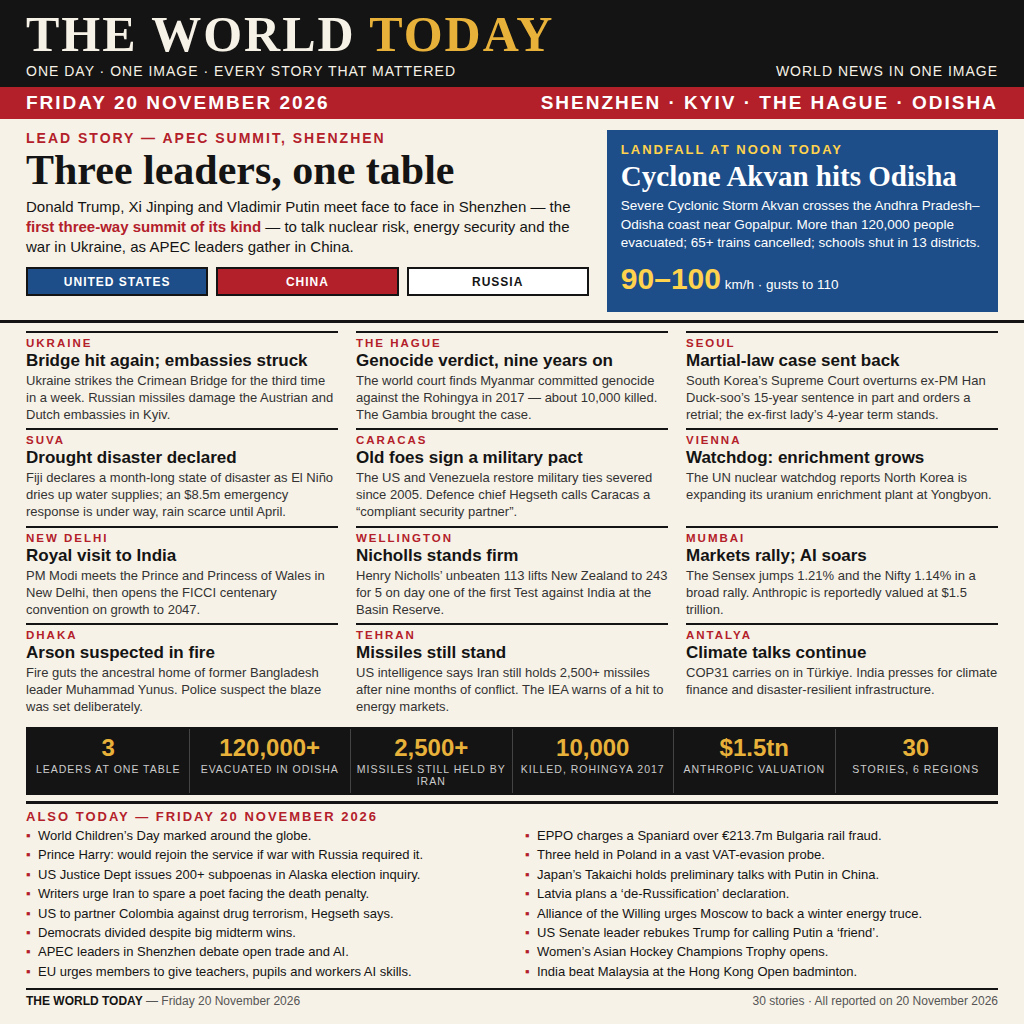
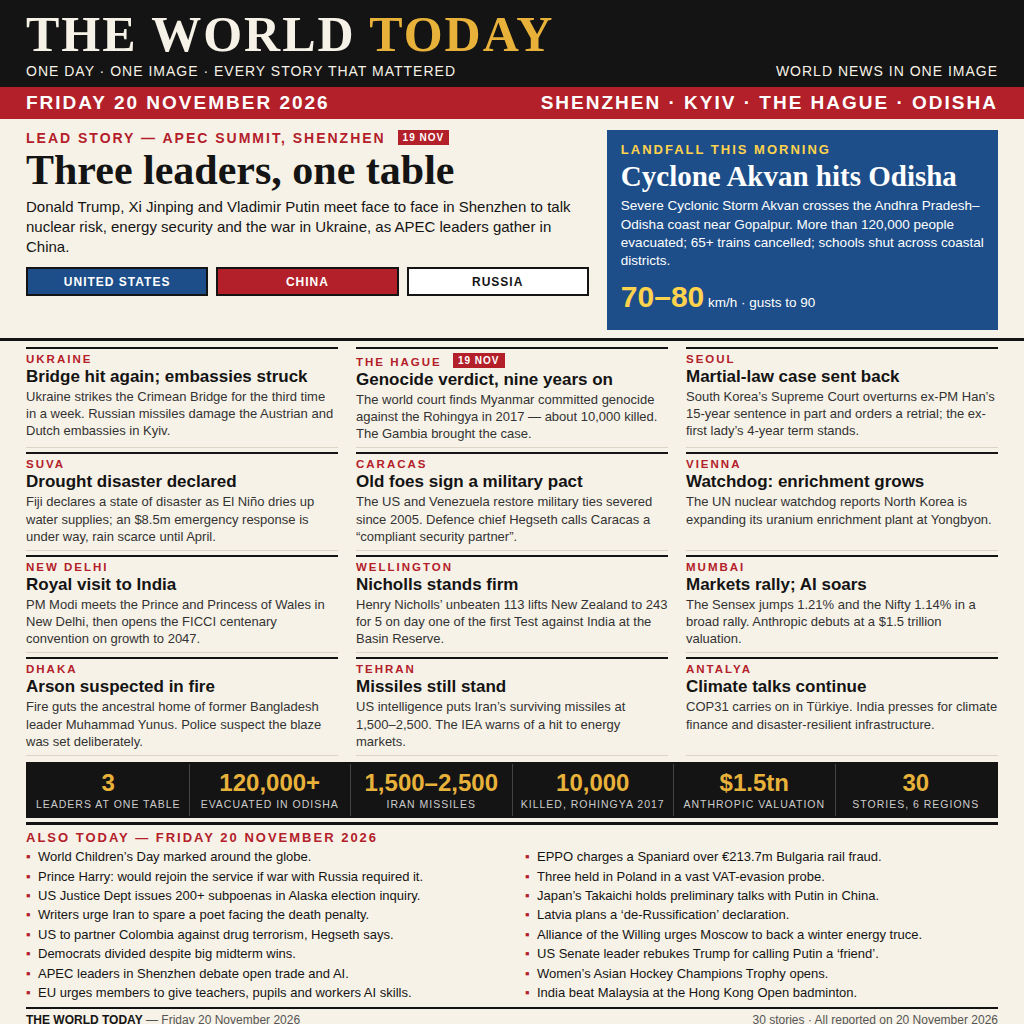
news-image-20261120: fix v1 per Urgent 6 advice — 19 NOV chips, soften summit claim, correct cyclone/Iran/Anthropic facts, grid cell separation

diff --git a/main.ts b/main.ts
@@ -2,23 +2,23 @@
 // Node 22, standard library only, no network access.
 // The picture lives next to this file as entry.png (1024x1024, made at build
 // time by rendering an HTML briefing board with headless Chromium, so every
-// letter is real vector text): a "THE WORLD TODAY" broadsheet with the
-// Shenzhen trilateral as the lead story, a Cyclone Akvan landfall box, twelve
-// headed stories, a six-number stat strip and sixteen "ALSO TODAY" items —
-// thirty verified stories from Friday 20 November 2026 in all. The design
-// won a blind three-judge panel (round-robin, both orders) over a poster
-// variant and an atlas variant; the panel's fixes are in this image.
+// letter is real vector text): a "THE WORLD TODAY" broadsheet — Shenzhen
+// trilateral lead, Cyclone Akvan landfall box, twelve headed stories, a
+// six-number stat strip and sixteen "ALSO TODAY" items: thirty verified
+// stories from Friday 20 November 2026. Panel winner over poster/atlas variants.
+// Revised after Urgent 6 advice: "19 NOV" chips on the two 19 Nov stories, the
+// "first three-way summit" superlative removed, cyclone figures corrected to the
+// IMD landfall bulletin, Iran missiles to the US intel range (1,500-2,500),
+// Anthropic as an IPO debut at $1.5tn, clearer grid cell separation.
 // This program just reads those bytes and writes them to the output directory
 // unchanged, which makes the two grading runs produce identical output by
 // construction.
 //
 // Local check:
 //   mkdir -p out && MAKEFUN_OUTPUT_DIR=out node main.ts
-
 import { mkdirSync, readFileSync, writeFileSync } from 'node:fs';
 import { dirname, join } from 'node:path';
 import { fileURLToPath } from 'node:url';
-
 const here = dirname(fileURLToPath(import.meta.url));
 const outDir = process.env.MAKEFUN_OUTPUT_DIR ?? '/output';
 mkdirSync(outDir, { recursive: true });
